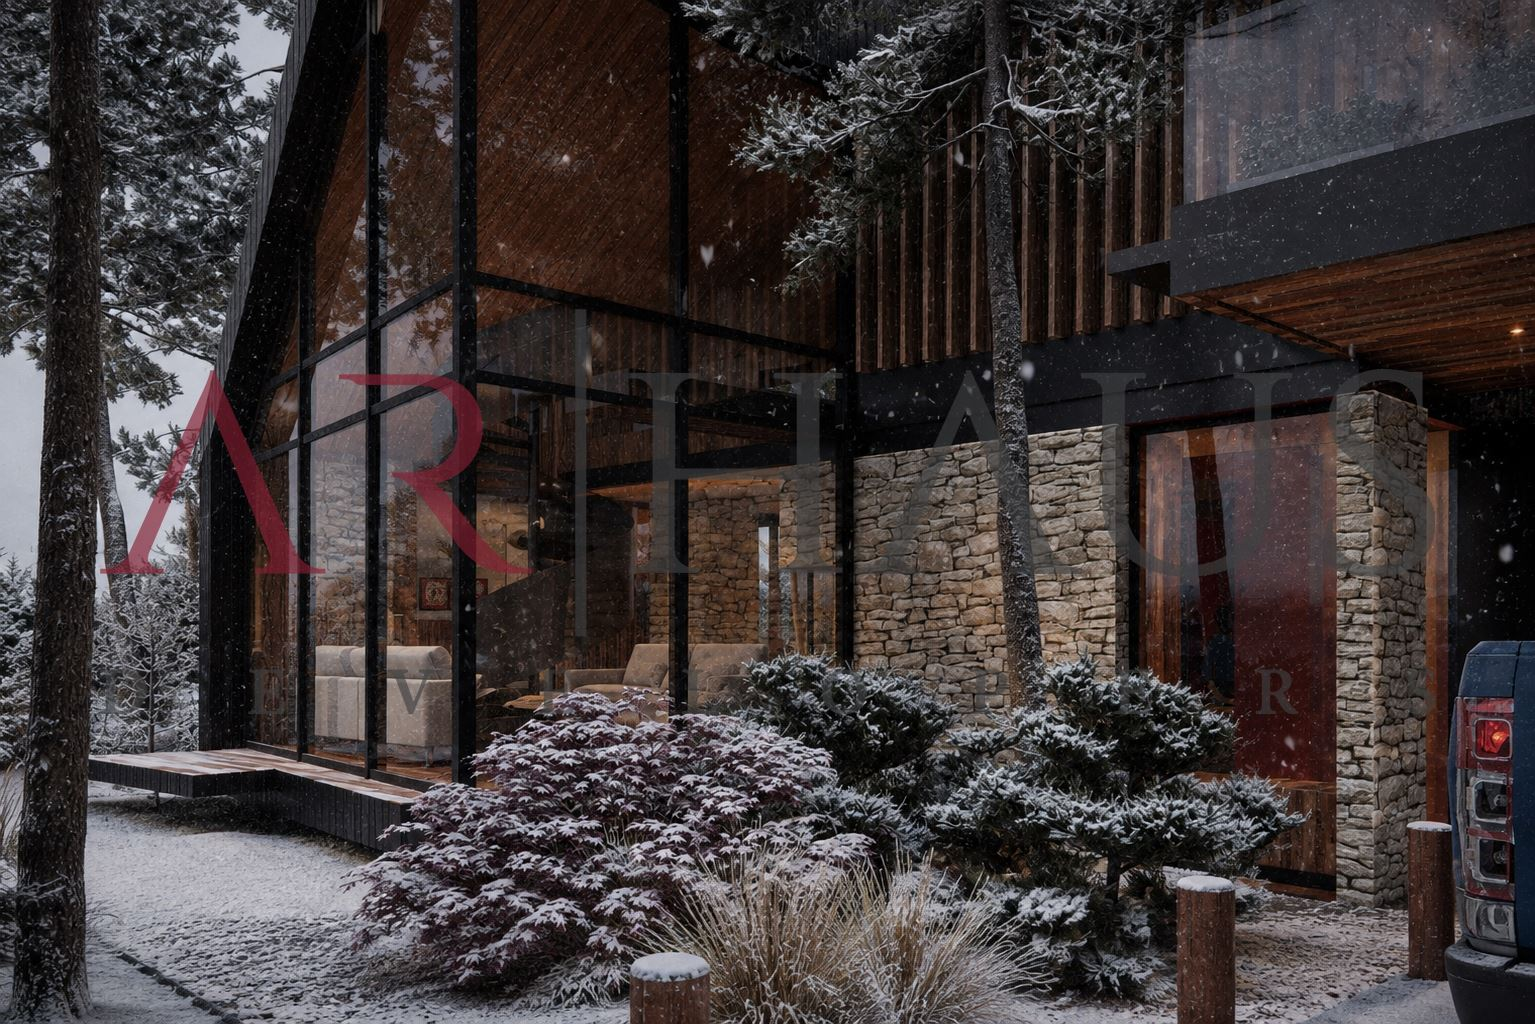
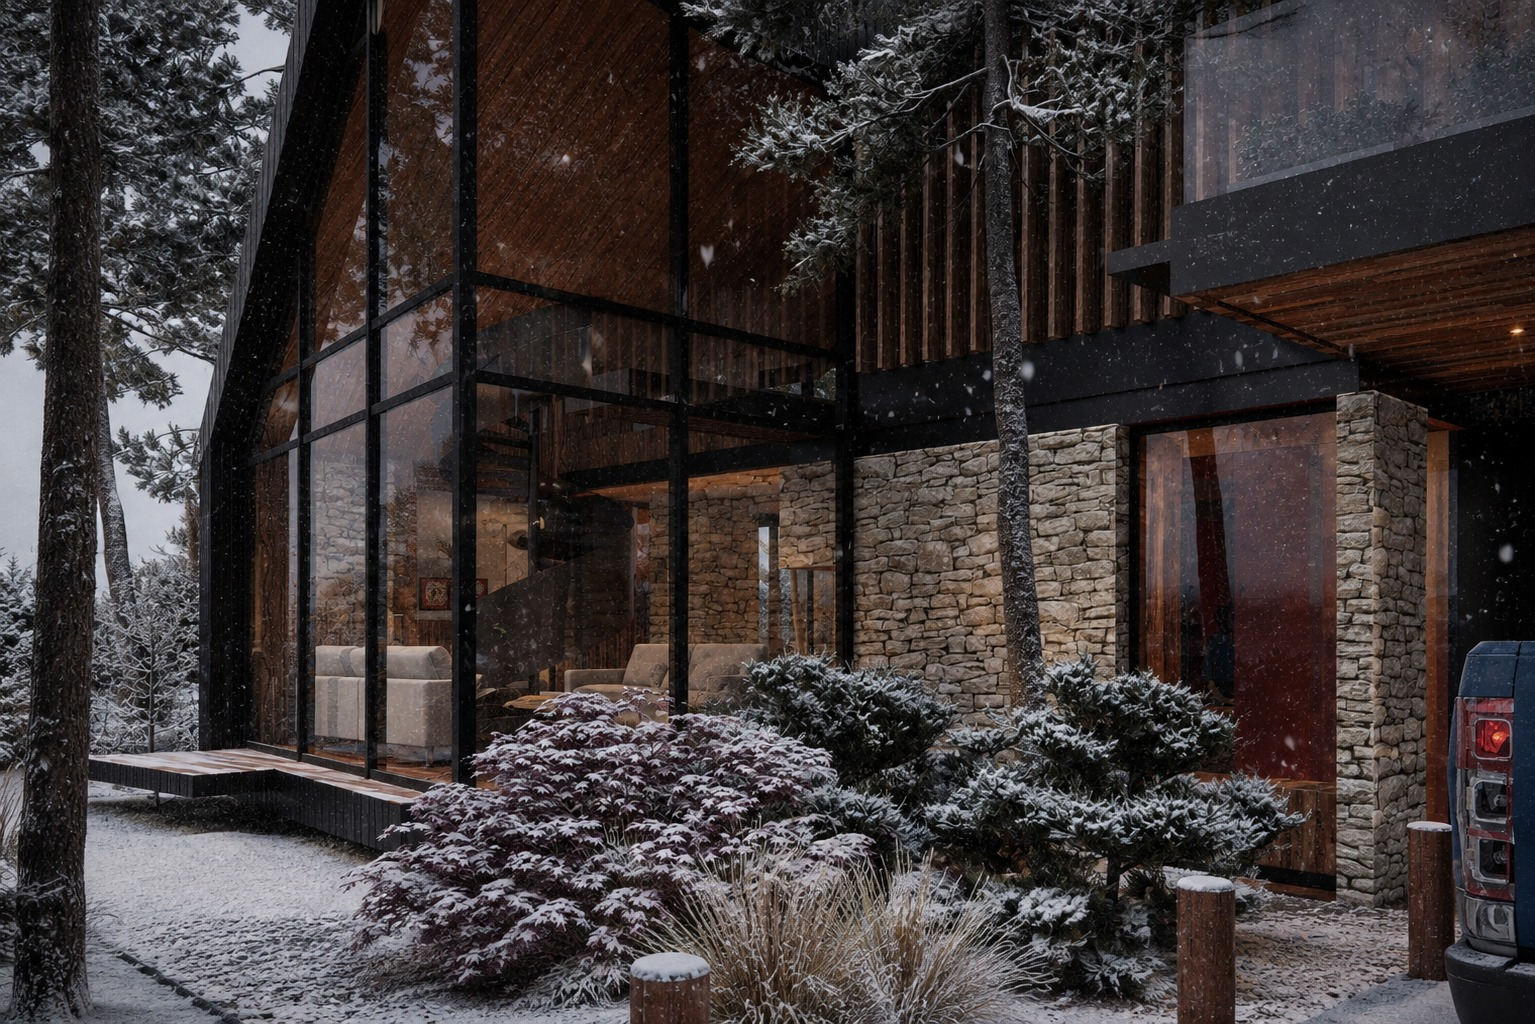
Huepil: los renders limpios, sin la marca de agua
Los nueve renders publicados de Casa Huepil tenian el logo de ARHAUS
cruzado en el medio. En el panel de Martin estan los mismos, limpios.
Se comprobo comparandolos pixel a pixel: la unica diferencia entre el PNG
del panel y el 01.jpg publicado era exactamente la marca de agua.

Ahora la ficha muestra doce renders, todos limpios:

- Los nueve de siempre, reemplazados por su version del panel. Mismas
  imagenes y mismo orden, asi que los textos alternativos siguen valiendo.
- Tres que no estaban publicados: el frente vidriado con el living a
  doble altura, la galeria con cielorraso de listones y el volumen de
  madera negra con el bano iluminado.

Lo que se pierde: ocho de los nueve limpios miden 1280 px de ancho contra
los 1535 de antes. El 01 no pierde nada porque existia el PNG original
del mismo tamano. Los .jpeg se copiaron tal cual, sin recomprimir, para
no sumar una generacion de perdida encima.

Tres de ellos (02, 03 y 08) estaban con barras negras arriba y abajo,
metidos a la fuerza en 3:2. Ahora van en su 16:9 nativo: la grilla ya
recorta con object-fit cover, asi que llenan el cuadro y las barras
desaparecen.

Las imagenes conservan el nombre, asi que llevan ?v=20261117 en las 25
referencias de proyecto-neuquen.html y en la del mosaico de
proyecto.html. Sin eso el CDN y los navegadores seguirian sirviendo las
viejas con marca de agua hasta siete dias. AL SUBIR: primero las
imagenes, despues los HTML.
[…]

diff --git a/proyecto-neuquen.html b/proyecto-neuquen.html
@@ -43,7 +43,7 @@
         <header class="ficha__portada ficha__portada--3d ficha__portada--noche ficha__portada--velo-abajo">
             <model-viewer
                 src="models/obras/2.glb"
-                poster="images/proyectos/unifamiliar/neuquen/07.jpg"
+                poster="images/proyectos/unifamiliar/neuquen/07.jpg?v=20261117"
                 alt="Maqueta 3D de Casa Huepil"
                 camera-controls
                 disable-pan
@@ -77,32 +77,41 @@
         </dl>
 
         <section class="ficha__galeria" aria-label="Imágenes del proyecto">
-            <button type="button" class="ficha__foto ficha__foto--ancha" data-grande="images/proyectos/unifamiliar/neuquen/01.jpg" aria-label="Ver en grande: Fachada vidriada con nieve">
-                <img src="images/proyectos/unifamiliar/neuquen/01.jpg" alt="Casa Huepil, Fachada vidriada con nieve" loading="lazy" decoding="async">
+            <button type="button" class="ficha__foto ficha__foto--ancha" data-grande="images/proyectos/unifamiliar/neuquen/01.jpg?v=20261117" aria-label="Ver en grande: Fachada vidriada con nieve">
+                <img src="images/proyectos/unifamiliar/neuquen/01.jpg?v=20261117" alt="Casa Huepil, Fachada vidriada con nieve" loading="lazy" decoding="async">
             </button>
-            <button type="button" class="ficha__foto" data-grande="images/proyectos/unifamiliar/neuquen/02.jpg" aria-label="Ver en grande: Vista general con nieve">
-                <img src="images/proyectos/unifamiliar/neuquen/02.jpg" alt="Casa Huepil, Vista general con nieve" loading="lazy" decoding="async">
+            <button type="button" class="ficha__foto" data-grande="images/proyectos/unifamiliar/neuquen/02.jpg?v=20261117" aria-label="Ver en grande: Vista general con nieve">
+                <img src="images/proyectos/unifamiliar/neuquen/02.jpg?v=20261117" alt="Casa Huepil, Vista general con nieve" loading="lazy" decoding="async">
             </button>
-            <button type="button" class="ficha__foto" data-grande="images/proyectos/unifamiliar/neuquen/03.jpg" aria-label="Ver en grande: Vista lateral">
-                <img src="images/proyectos/unifamiliar/neuquen/03.jpg" alt="Casa Huepil, Vista lateral" loading="lazy" decoding="async">
+            <button type="button" class="ficha__foto" data-grande="images/proyectos/unifamiliar/neuquen/03.jpg?v=20261117" aria-label="Ver en grande: Vista lateral">
+                <img src="images/proyectos/unifamiliar/neuquen/03.jpg?v=20261117" alt="Casa Huepil, Vista lateral" loading="lazy" decoding="async">
             </button>
-            <button type="button" class="ficha__foto" data-grande="images/proyectos/unifamiliar/neuquen/04.jpg" aria-label="Ver en grande: Acceso con escalones iluminados">
-                <img src="images/proyectos/unifamiliar/neuquen/04.jpg" alt="Casa Huepil, Acceso con escalones iluminados" loading="lazy" decoding="async">
+            <button type="button" class="ficha__foto" data-grande="images/proyectos/unifamiliar/neuquen/04.jpg?v=20261117" aria-label="Ver en grande: Acceso con escalones iluminados">
+                <img src="images/proyectos/unifamiliar/neuquen/04.jpg?v=20261117" alt="Casa Huepil, Acceso con escalones iluminados" loading="lazy" decoding="async">
             </button>
-            <button type="button" class="ficha__foto" data-grande="images/proyectos/unifamiliar/neuquen/05.jpg" aria-label="Ver en grande: Galería cubierta">
-                <img src="images/proyectos/unifamiliar/neuquen/05.jpg" alt="Casa Huepil, Galería cubierta" loading="lazy" decoding="async">
+            <button type="button" class="ficha__foto" data-grande="images/proyectos/unifamiliar/neuquen/05.jpg?v=20261117" aria-label="Ver en grande: Galería cubierta">
+                <img src="images/proyectos/unifamiliar/neuquen/05.jpg?v=20261117" alt="Casa Huepil, Galería cubierta" loading="lazy" decoding="async">
             </button>
-            <button type="button" class="ficha__foto ficha__foto--ancha" data-grande="images/proyectos/unifamiliar/neuquen/06.jpg" aria-label="Ver en grande: Detalle de fachada">
-                <img src="images/proyectos/unifamiliar/neuquen/06.jpg" alt="Casa Huepil, Detalle de fachada" loading="lazy" decoding="async">
+            <button type="button" class="ficha__foto ficha__foto--ancha" data-grande="images/proyectos/unifamiliar/neuquen/06.jpg?v=20261117" aria-label="Ver en grande: Detalle de fachada">
+                <img src="images/proyectos/unifamiliar/neuquen/06.jpg?v=20261117" alt="Casa Huepil, Detalle de fachada" loading="lazy" decoding="async">
             </button>
-            <button type="button" class="ficha__foto" data-grande="images/proyectos/unifamiliar/neuquen/07.jpg" aria-label="Ver en grande: Fachada iluminada de noche">
-                <img src="images/proyectos/unifamiliar/neuquen/07.jpg" alt="Casa Huepil, Fachada iluminada de noche" loading="lazy" decoding="async">
+            <button type="button" class="ficha__foto" data-grande="images/proyectos/unifamiliar/neuquen/07.jpg?v=20261117" aria-label="Ver en grande: Fachada iluminada de noche">
+                <img src="images/proyectos/unifamiliar/neuquen/07.jpg?v=20261117" alt="Casa Huepil, Fachada iluminada de noche" loading="lazy" decoding="async">
             </button>
-            <button type="button" class="ficha__foto" data-grande="images/proyectos/unifamiliar/neuquen/08.jpg" aria-label="Ver en grande: Fachada con jardín iluminado">
-                <img src="images/proyectos/unifamiliar/neuquen/08.jpg" alt="Casa Huepil, Fachada con jardín iluminado" loading="lazy" decoding="async">
+            <button type="button" class="ficha__foto" data-grande="images/proyectos/unifamiliar/neuquen/08.jpg?v=20261117" aria-label="Ver en grande: Fachada con jardín iluminado">
+                <img src="images/proyectos/unifamiliar/neuquen/08.jpg?v=20261117" alt="Casa Huepil, Fachada con jardín iluminado" loading="lazy" decoding="async">
             </button>
-            <button type="button" class="ficha__foto" data-grande="images/proyectos/unifamiliar/neuquen/09.jpg" aria-label="Ver en grande: Camino de acceso iluminado">
-                <img src="images/proyectos/unifamiliar/neuquen/09.jpg" alt="Casa Huepil, Camino de acceso iluminado" loading="lazy" decoding="async">
+            <button type="button" class="ficha__foto" data-grande="images/proyectos/unifamiliar/neuquen/09.jpg?v=20261117" aria-label="Ver en grande: Camino de acceso iluminado">
+                <img src="images/proyectos/unifamiliar/neuquen/09.jpg?v=20261117" alt="Casa Huepil, Camino de acceso iluminado" loading="lazy" decoding="async">
+            </button>
+            <button type="button" class="ficha__foto" data-grande="images/proyectos/unifamiliar/neuquen/10.jpg?v=20261117" aria-label="Ver en grande: Frente vidriado con el living a doble altura">
+                <img src="images/proyectos/unifamiliar/neuquen/10.jpg?v=20261117" alt="Casa Huepil, Frente vidriado con el living a doble altura" loading="lazy" decoding="async">
+            </button>
+            <button type="button" class="ficha__foto" data-grande="images/proyectos/unifamiliar/neuquen/11.jpg?v=20261117" aria-label="Ver en grande: Galería cubierta con cielorraso de listones">
+                <img src="images/proyectos/unifamiliar/neuquen/11.jpg?v=20261117" alt="Casa Huepil, Galería cubierta con cielorraso de listones" loading="lazy" decoding="async">
+            </button>
+            <button type="button" class="ficha__foto" data-grande="images/proyectos/unifamiliar/neuquen/12.jpg?v=20261117" aria-label="Ver en grande: Volumen de madera negra con el baño iluminado">
+                <img src="images/proyectos/unifamiliar/neuquen/12.jpg?v=20261117" alt="Casa Huepil, Volumen de madera negra con el baño iluminado" loading="lazy" decoding="async">
             </button>
         </section>
 

diff --git a/proyecto.html b/proyecto.html
@@ -138,7 +138,7 @@
                     </span>
                 </a>
                 <a class="mosaico__cuadro" href="proyecto-neuquen.html" data-pieza="p3" data-categoria="proyectos" data-leyenda="San Martín de los Andes · Casa Huepil, maqueta 3D — agarrala con el mouse para girarla" style="--escala: 0.6">
-                    <img class="mosaico__foto" data-src="images/proyectos/unifamiliar/neuquen/07.jpg" alt="San Martín de los Andes, Casa Huepil" loading="lazy">
+                    <img class="mosaico__foto" data-src="images/proyectos/unifamiliar/neuquen/07.jpg?v=20261117" alt="San Martín de los Andes, Casa Huepil" loading="lazy">
                     <span class="mosaico__nombre">San Martín de los Andes</span>
                     <span class="mosaico__pie">
                         <span>Casa Huepil</span>
